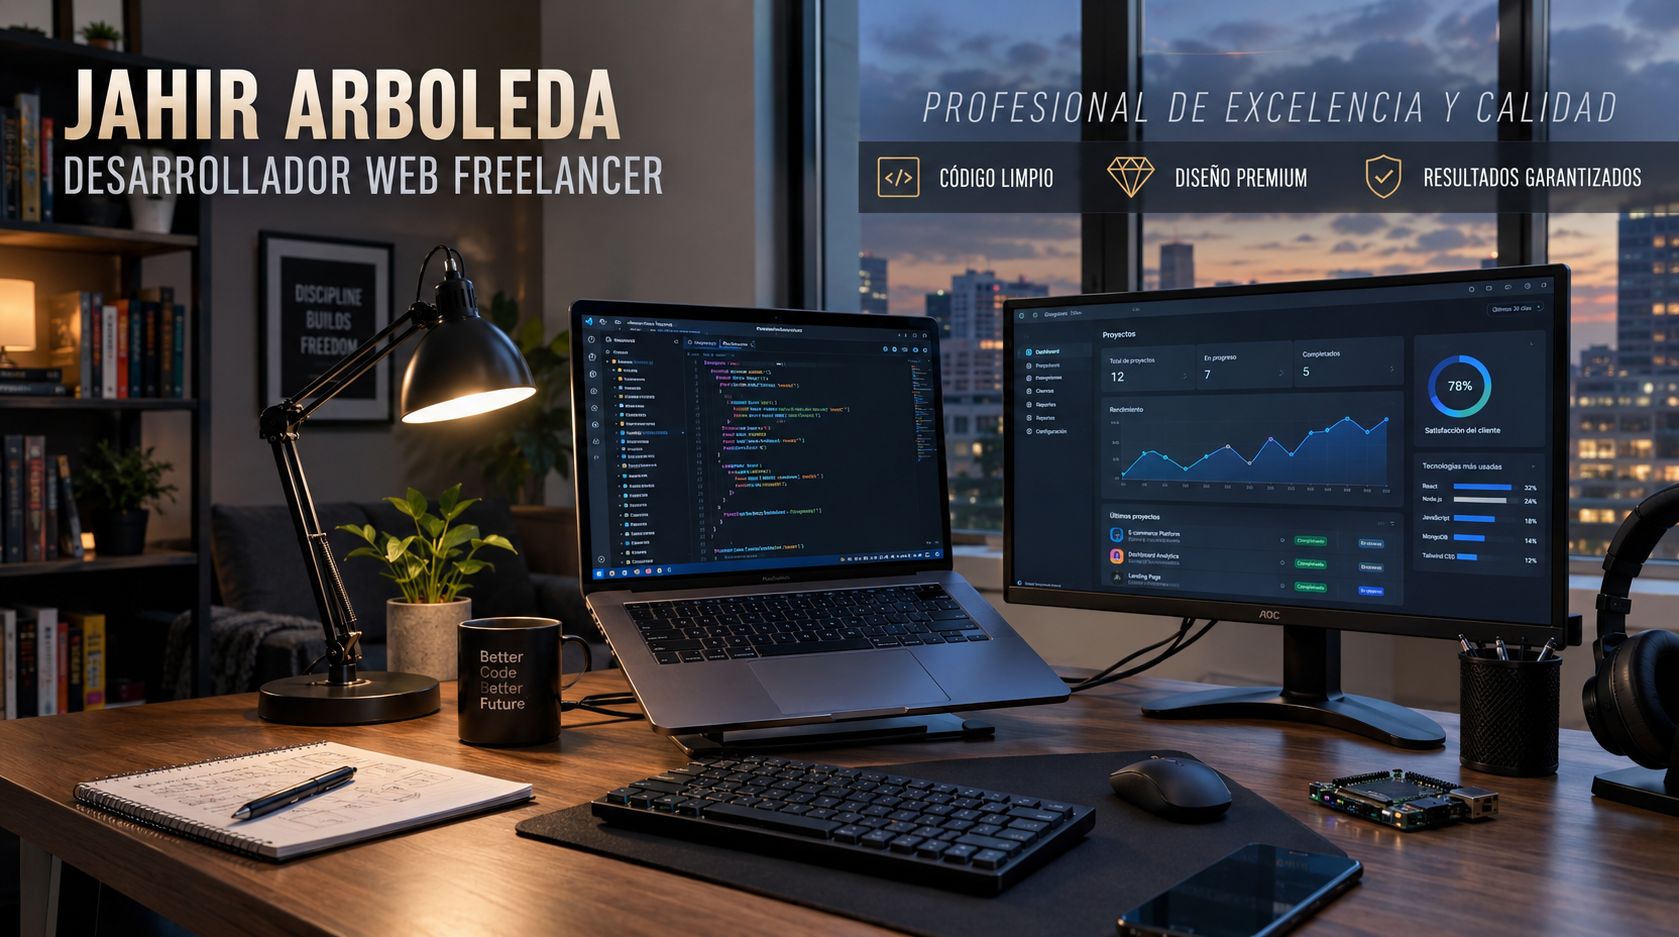
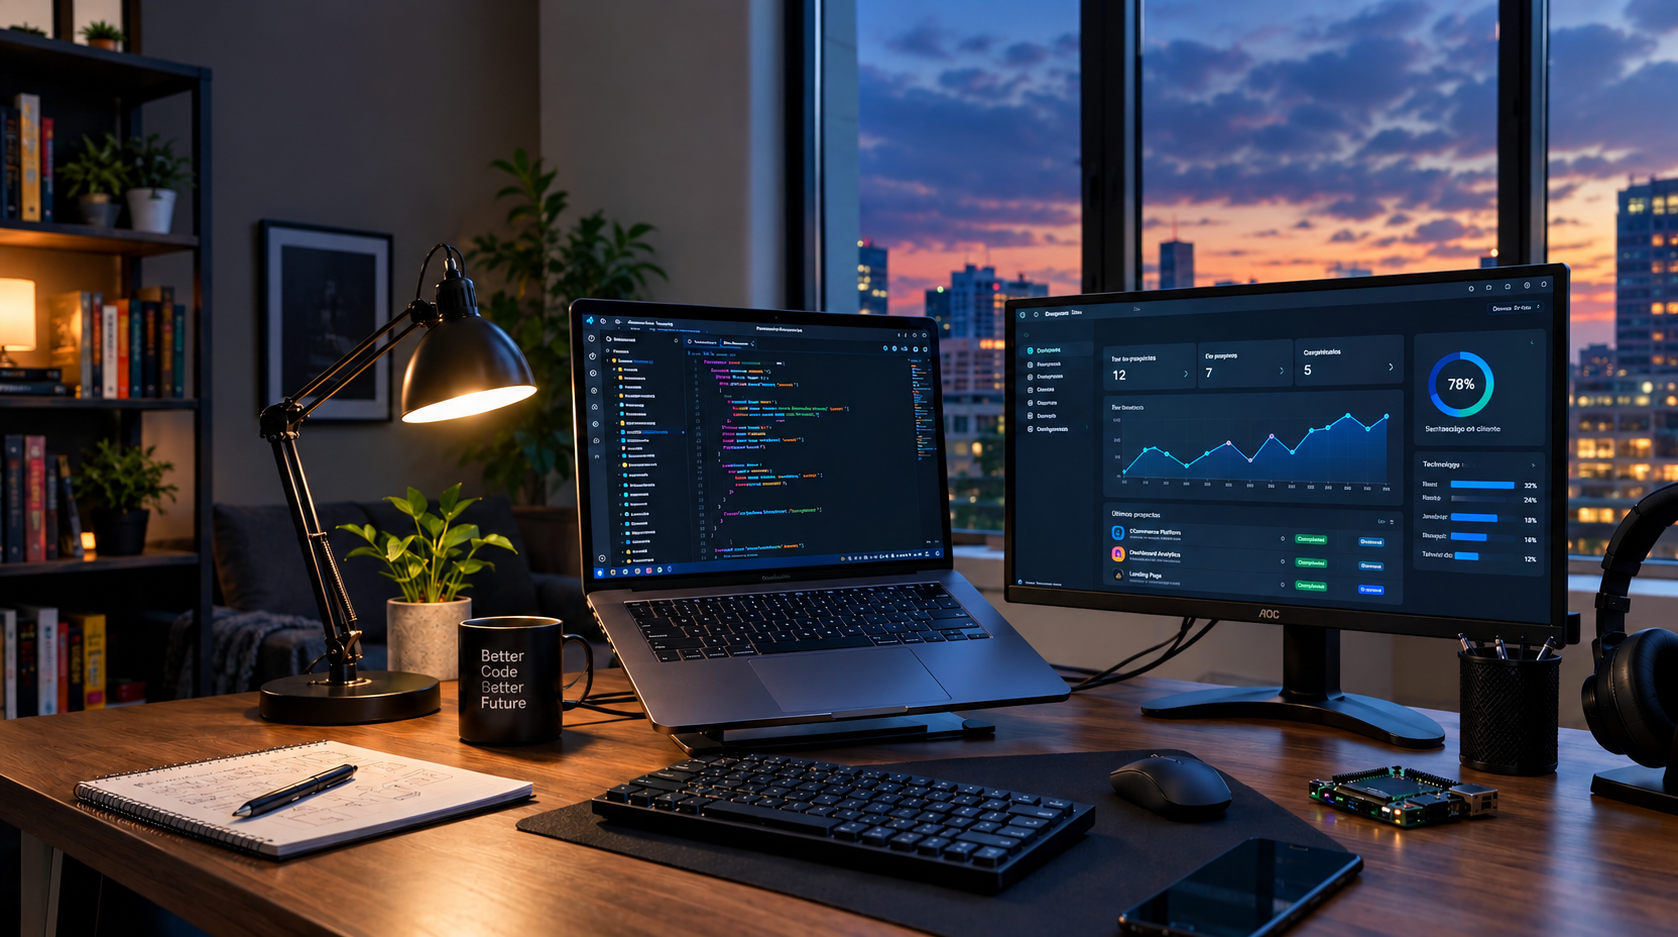
Primer commit: Sitio Freelancer

diff --git a/index.html b/index.html
@@ -1,5 +1,5 @@
 <!DOCTYPE html>
-<!--  lang="es": le dice al navegador y a Google que la página está en español  -->
+<!--  lang="es": lo que dice al navegador y a Google que la página está en español  -->
 <html lang="es">
 <head>
   <!-- charset UTF-8: permite que se vean bien las tildes y la ñ -->
@@ -9,9 +9,10 @@
     <meta name="viewport" content="width=device-width, initial-scale=1.0">
 
     <!-- title: el texto que se ve en la pestaña del navegador -->
-    <title>Jahir Arboleda | Desarrollador Web Freelancer</title>
+    <title>Jahir'stech | Desarrollo Web Freelancer</title>
 
-  <!-- Aqui le decimos que carge lo mas rapido que pueda la hoja de estylo como una hoja de estylo -->
+  <!-- Aqui le decimos que carge lo mas rapido que pueda 
+   a la hoja de estylo como una hoja de estylo -->
     <link rel="preload" href="CSS/style.css" as="style">
 
   <!-- Aqui conectamos la hoja de estilo de CSS con el codigo HTML -->
@@ -31,14 +32,14 @@
  
     <div class="logo">
 
-       <h1>Jahir Arboelda Freelancer</h1>
+       <h1>Jahir'stech Freelancer</h1>
 
     </div>
 
    <!-- class="active": marca en qué sección estás (se ve subrayado)  -->
     <nav class="nav">
         <a href="#" class="active">Inicio</a>
-         <a href="#">Sobre Mi</a> 
+         <a href="./Sobre-mi/sobre-mi.html">Sobre Mi</a> 
           <a href="#">Clientes</a>
 
           <!-- #contacto lleva al elemento que tenga id="contacto" -->
@@ -170,7 +171,7 @@
          id="contacto": es el "ancla" a la que llevan los enlaces #contacto -->
 <section id="contacto" class="container contacto-section">
 
-<h3 class="section-title">Contacto</h3>
+<h3 class="section-title">Cuentame tus Dudas</h3>
 
 <!-- etiqueta para crear formularios 
   form: etiqueta para crear formularios -->
@@ -228,7 +229,7 @@
 </section>
 
 <footer class="footer">
-<p>Todo los Derechos Reservados. Jahir Arboleda Freelancer</p>
+<p>Todo los Derechos Reservados. Jahir'stech Freelancer</p>
 </footer>
 
 </body>

diff --git a/Sobre-mi/sobre-mi.html b/Sobre-mi/sobre-mi.html
@@ -1,0 +1,36 @@
+<!DOCTYPE html>
+<html lang="en">
+<head>
+    <meta charset="UTF-8">
+    <meta name="viewport" content="width=device-width, initial-scale=1.0">
+    <title>Document</title>
+    <link rel="preload" href="CSS/style.css" as"style">
+    <link rel="stylesheet" href="CSS/style.css">
+</head>
+<body>
+    <a href="../index.html"><button>Inicio</button></a>
+    <section class="about" id="sobre-mi">
+
+    <div class="about-content">
+        <span class="about-subtitle">SOBRE MÍ</span>
+
+        <h2>
+            Transformo ideas en
+            <span>experiencias web.</span>
+        </h2>
+
+        <p class="about-text">
+            Soy Jahir Arboleda, desarrollador web freelance.
+            Creo sitios modernos, rápidos y funcionales,
+            combinando diseño, tecnología y creatividad.
+        </p>
+
+        <p class="about-text">
+            Mi objetivo es convertir cada proyecto en una
+            experiencia digital profesional y memorable.
+        </p>
+    </div>
+
+</section>
+</body>
+</html>
